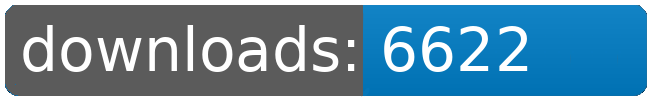
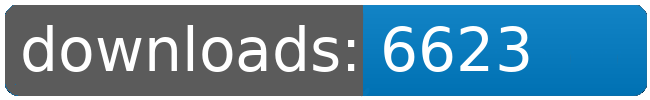
dl log written

Changed region(s): [[0.7692, 0.42, 0.8308, 0.72], [0.7692, 0.27, 0.8308, 0.39]]

diff --git a/README.md b/README.md
@@ -32,8 +32,8 @@
 		<td>6581</td>
 		<td>6594</td>
 		<td>6610</td>
-		<td>6622</td>
-		<td>+ 12</td>
+		<td>6623</td>
+		<td>+ 13</td>
 	</tr>
 	<tr>
 		<td>Fundamental.Outfit.Expansion</td>
@@ -43,8 +43,8 @@
 		<td>7858</td>
 		<td>7871</td>
 		<td>7888</td>
-		<td>7902</td>
-		<td>+ 14</td>
+		<td>7903</td>
+		<td>+ 15</td>
 	</tr>
 	<tr>
 		<td>Jaws</td>
@@ -120,8 +120,8 @@
 		<td></td>
 		<td></td>
 		<td></td>
-		<td>55580</td>
-		<td>103</td>
+		<td>55582</td>
+		<td>105</td>
 	</tr>
 </table>
 </sub></sup>
@@ -146,8 +146,8 @@
 		<td>7858</td>
 		<td>7871</td>
 		<td>7888</td>
-		<td>7902</td>
-		<td>+ 14</td>
+		<td>7903</td>
+		<td>+ 15</td>
 	</tr>
 	<tr>
 		<td>Bunsen.Burner</td>
@@ -190,8 +190,8 @@
 		<td>6581</td>
 		<td>6594</td>
 		<td>6610</td>
-		<td>6622</td>
-		<td>+ 12</td>
+		<td>6623</td>
+		<td>+ 13</td>
 	</tr>
 	<tr>
 		<td>Solar.Sails</td>
@@ -245,8 +245,8 @@
 		<td></td>
 		<td></td>
 		<td></td>
-		<td>55580</td>
-		<td>103</td>
+		<td>55582</td>
+		<td>105</td>
 	</tr>
 </table>
 </sub></sup>
